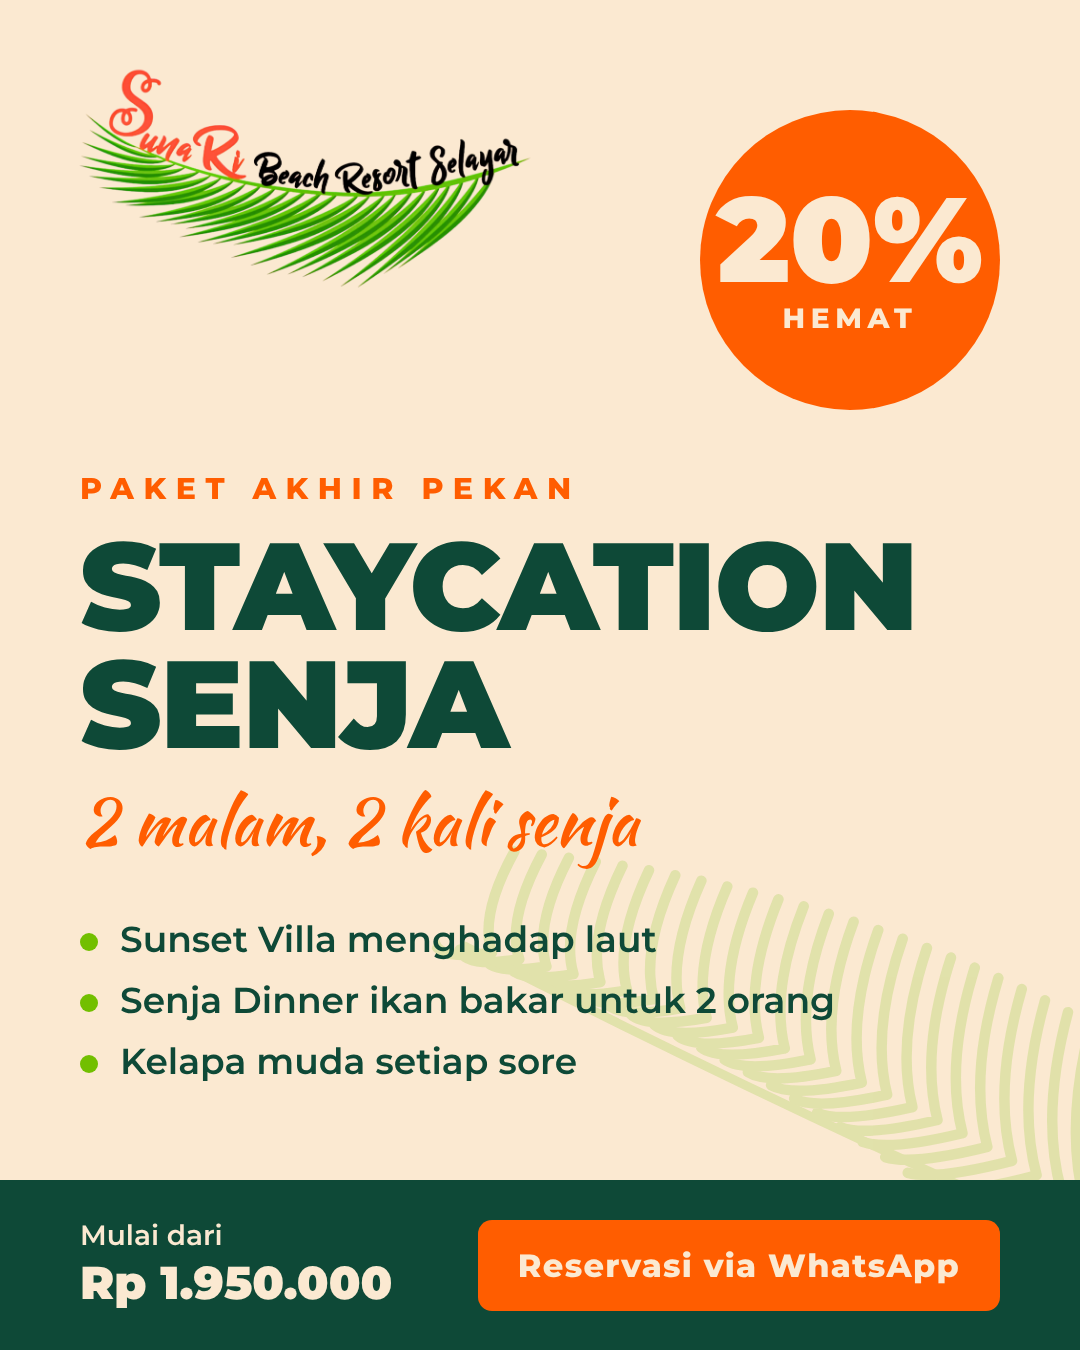
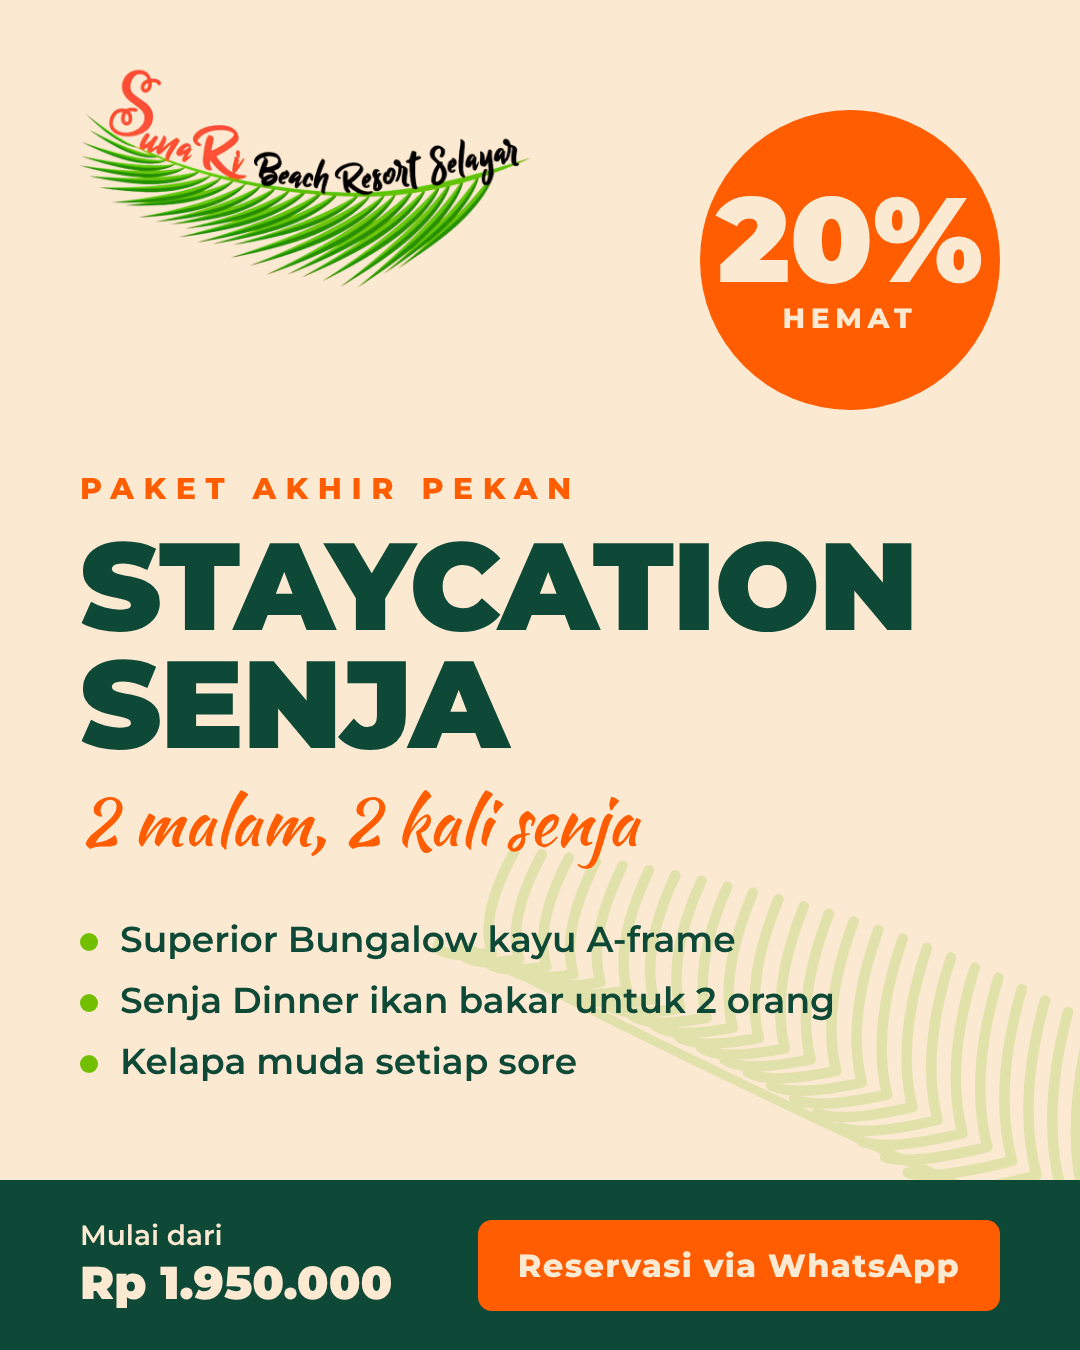
Add Superior Bungalow photos and room-tour carousel
Claude-Session: https://claude.ai/code/session_01AizaiBQtsTmWERPRfEgVV4

Changed region(s): [[0.1528, 0.6844, 0.6722, 0.7156]]

diff --git a/social/carousel-superior.html b/social/carousel-superior.html
@@ -1,0 +1,106 @@
+<!doctype html>
+<html lang="id">
+<head>
+<meta charset="utf-8">
+<meta name="viewport" content="width=device-width, initial-scale=1">
+<title>Superior Bungalow Carousel</title>
+<link href="https://fonts.googleapis.com/css2?family=Montserrat:wght@500;600;800;900&family=Kaushan+Script&display=swap" rel="stylesheet">
+<style>
+  :root{--teal:#0E4937;--beige:#FBE9D1;--orange:#FF5D00;--lime:#72BF00}
+  *{box-sizing:border-box;margin:0;padding:0}
+  body{background:#d9d4cc;font-family:Montserrat,sans-serif;padding:40px;display:flex;flex-wrap:wrap;gap:40px}
+  .tpl{position:relative;width:1080px;height:1350px;overflow:hidden;flex:none;background:var(--teal);color:var(--beige)}
+  .photo{position:absolute;inset:0;width:100%;height:100%;object-fit:cover}
+  .script{font-family:'Kaushan Script',cursive}
+  .kicker{font-weight:800;letter-spacing:.32em;text-transform:uppercase;font-size:28px}
+  .num{position:absolute;top:56px;right:60px;font-weight:800;font-size:26px;letter-spacing:.2em;
+       background:rgba(14,73,55,.82);padding:12px 22px;border-radius:40px}
+  /* cover */
+  #sb-1 .shade{position:absolute;inset:0;background:linear-gradient(180deg,rgba(14,73,55,0) 28%,rgba(14,73,55,.9) 62%,var(--teal) 100%)}
+  #sb-1 .txt{position:absolute;left:80px;right:80px;bottom:300px}
+  #sb-1 .kicker{color:var(--beige);opacity:.9}
+  #sb-1 h1{font-weight:900;font-size:128px;line-height:.92;text-transform:uppercase;margin-top:16px}
+  #sb-1 .script{color:var(--orange);font-size:62px;margin-top:14px}
+  #sb-1 .logo{position:absolute;left:66px;bottom:60px;width:420px}
+  #sb-1 .swipe{position:absolute;right:80px;bottom:100px;font-weight:700;font-size:28px;letter-spacing:.14em}
+  /* photo slides */
+  .photo-slide .photo{height:1030px}
+  .photo-slide .band{position:absolute;left:0;right:0;bottom:0;height:320px;background:var(--teal);padding:56px 80px}
+  .photo-slide .band::before{content:"";position:absolute;left:80px;top:0;width:120px;height:8px;background:var(--orange)}
+  .photo-slide h2{font-weight:900;font-size:66px;line-height:1.02;text-transform:uppercase}
+  .photo-slide p{font-weight:500;font-size:32px;line-height:1.45;margin-top:18px;opacity:.9}
+  /* split slide */
+  #sb-5 .a{position:absolute;left:0;top:0;width:1080px;height:515px;object-fit:cover}
+  #sb-5 .b{position:absolute;left:0;top:525px;width:1080px;height:505px;object-fit:cover}
+  /* CTA */
+  #sb-6{background:var(--beige);color:var(--teal)}
+  #sb-6 .logo{position:absolute;left:70px;top:60px;width:470px}
+  #sb-6 .body{position:absolute;left:80px;right:80px;top:380px}
+  #sb-6 .kicker{color:var(--orange)}
+  #sb-6 h2{font-weight:900;font-size:96px;line-height:.95;text-transform:uppercase;margin-top:16px}
+  #sb-6 ul{list-style:none;margin-top:44px;font-weight:600;font-size:34px;line-height:1.75}
+  #sb-6 li::before{content:"";display:inline-block;width:16px;height:16px;border-radius:50%;background:var(--lime);margin-right:22px;vertical-align:middle}
+  #sb-6 .cta{position:absolute;left:0;right:0;bottom:0;height:170px;background:var(--teal);color:var(--beige);display:flex;align-items:center;justify-content:space-between;padding:0 80px}
+  #sb-6 .price{font-weight:600;font-size:28px;line-height:1.3;white-space:nowrap}
+  #sb-6 .price b{display:block;font-weight:900;font-size:44px}
+  #sb-6 .btn{white-space:nowrap;background:var(--orange);font-weight:800;font-size:32px;padding:26px 40px;border-radius:14px}
+</style>
+</head>
+<body>
+<div class="tpl" id="sb-1">
+  <img class="photo" src="../assets/photos/superior-bungalow/02-eksterior-depan.jpg" style="object-position:50% 30%" alt="">
+  <div class="shade"></div>
+  <div class="txt">
+    <div class="kicker">Room Tour</div>
+    <h1>Superior<br>Bungalow</h1>
+    <div class="script">Rumah kayu di antara pohon kelapa</div>
+  </div>
+  <div class="swipe">GESER →</div>
+  <img class="logo" src="../assets/logo-sunari-light.png" alt="">
+</div>
+
+<div class="tpl photo-slide" id="sb-2">
+  <img class="photo" src="../assets/photos/superior-bungalow/03-teras.jpg" alt="">
+  <div class="num">2/6</div>
+  <div class="band"><h2>Teras kayu pribadi</h2><p>Tempat terbaik untuk kopi pagi dan obrolan sore, dengan pohon kelapa sebagai pemandangannya.</p></div>
+</div>
+
+<div class="tpl photo-slide" id="sb-3">
+  <img class="photo" src="../assets/photos/superior-bungalow/04-kamar-loteng.jpg" alt="">
+  <div class="num">3/6</div>
+  <div class="band"><h2>Atap A-frame &amp; loteng</h2><p>Langit-langit kayu menjulang dengan loteng di atas. Lapang, sejuk, dan hangat sekaligus.</p></div>
+</div>
+
+<div class="tpl photo-slide" id="sb-4">
+  <img class="photo" src="../assets/photos/superior-bungalow/05-kamar-tempat-tidur.jpg" alt="">
+  <div class="num">4/6</div>
+  <div class="band"><h2>Tidur nyenyak, bangun santai</h2><p>Kasur besar, pintu kaca ke teras, dan cahaya pagi yang masuk pelan-pelan.</p></div>
+</div>
+
+<div class="tpl photo-slide" id="sb-5">
+  <img class="a" src="../assets/photos/superior-bungalow/10-kamar-mandi-taman.jpg" style="object-position:50% 60%" alt="">
+  <img class="b" src="../assets/photos/superior-bungalow/09-shower.jpg" style="object-position:50% 35%" alt="">
+  <div class="num">5/6</div>
+  <div class="band"><h2>Kamar mandi<br>semi-outdoor</h2><p>Mandi di bawah rain shower, ditemani taman hijau dan langit terbuka.</p></div>
+</div>
+
+<div class="tpl" id="sb-6">
+  <img class="logo" src="../assets/logo-sunari-transparent.png" alt="">
+  <div class="body">
+    <div class="kicker">Superior Bungalow</div>
+    <h2>Yang kamu<br>dapatkan</h2>
+    <ul>
+      <li>Bungalow kayu A-frame + loteng</li>
+      <li>Teras pribadi dengan kursi santai</li>
+      <li>Kamar mandi semi-outdoor, rain shower</li>
+      <li>AC, TV, perlengkapan kopi &amp; teh</li>
+      <li>Beberapa langkah ke pantai</li>
+    </ul>
+  </div>
+  <div class="cta">
+    <div class="price">Mulai dari<b>Rp [harga]/malam</b></div>
+    <div class="btn">Reservasi via WhatsApp</div>
+  </div>
+</div>
+</body>
+</html>

diff --git a/social/render.js b/social/render.js
@@ -1,16 +1,21 @@
-// Render each template in social-kit.html to PNG.
-// Usage: node social/render.js   (requires Playwright)
+// Render every .tpl element in a template file to PNG (file name = element id).
+// Usage: node social/render.js [file.html ...]   (default: all template files)
 const { chromium } = require('playwright');
 const path = require('path');
+const files = process.argv.slice(2).length ? process.argv.slice(2)
+  : ['social-kit.html', 'carousel-superior.html'];
 (async () => {
   const browser = await chromium.launch();
   const page = await browser.newPage({ viewport: { width: 2400, height: 2200 } });
-  await page.goto('file://' + path.join(__dirname, 'social-kit.html'));
-  await page.evaluate(() => document.fonts.ready);
-  await page.waitForTimeout(500);
-  for (const id of ['feed-senja', 'feed-promo', 'feed-quote', 'story-senja']) {
-    await page.locator('#' + id).screenshot({ path: path.join(__dirname, id + '.png') });
-    console.log('saved', id + '.png');
+  for (const f of files) {
+    const outDir = path.join(__dirname, f.startsWith('carousel') ? 'carousel' : '.');
+    await page.goto('file://' + path.join(__dirname, path.basename(f)));
+    await page.evaluate(() => document.fonts.ready);
+    await page.waitForLoadState('networkidle');
+    for (const id of await page.$$eval('.tpl', els => els.map(e => e.id))) {
+      await page.locator('#' + id).screenshot({ path: path.join(outDir, id + '.png') });
+      console.log('saved', path.relative(__dirname, path.join(outDir, id + '.png')));
+    }
   }
   await browser.close();
 })();

diff --git a/social/social-kit.html b/social/social-kit.html
@@ -117,7 +117,7 @@
     <h1>Staycation<br>Senja</h1>
     <div class="script">2 malam, 2 kali senja</div>
     <ul>
-      <li>Sunset Villa menghadap laut</li>
+      <li>Superior Bungalow kayu A-frame</li>
       <li>Senja Dinner ikan bakar untuk 2 orang</li>
       <li>Kelapa muda setiap sore</li>
     </ul>

diff --git a/social/INSTAGRAM_BULAN_1.md b/social/INSTAGRAM_BULAN_1.md
@@ -101,17 +101,19 @@ Simpan akun ini supaya tidak ketinggalan.
 #SenjaHariIni #SunaRiSelayar #Selayar #SunsetLovers
 ```
 
-**Hari 3 · Carousel · Kamar & Fasilitas**
-*Visual:* 5 slide: tampak depan resort, kamar, balkon, pantai, kursi santai.
+**Hari 3 · Carousel (siap: `social/carousel/sb-1…6.png`) · Kamar & Fasilitas**
+*Visual:* room tour Superior Bungalow, 6 slide (cover, teras, atap & loteng, tempat tidur, kamar mandi, fasilitas).
 ```
-Geser untuk melihat rumah barumu selama di Selayar. 🌴
+Room tour: Superior Bungalow. 🌴
 
-Semua kamar kami dirancang menghadap ke barat,
-supaya senja bisa kamu nikmati tanpa beranjak dari balkon.
+Rumah kayu beratap A-frame di antara pohon kelapa,
+lengkap dengan loteng, teras pribadi,
+dan kamar mandi semi-outdoor yang dikelilingi taman.
 
-Tipe kamar mana favoritmu? Tulis di kolom komentar.
+Geser sampai akhir untuk melihat fasilitasnya,
+lalu ceritakan di komentar: bagian mana yang paling kamu suka?
 
-#SunaRiSelayar #BeachResort #Selayar #ResortIndonesia
+#SunaRiSelayar #RoomTour #BeachResort #Selayar #ResortIndonesia
 ```
 
 **Hari 4 · Feed · Pesona Selayar**
@@ -204,13 +206,12 @@ Gratis untuk semua tamu yang menginap.
 ```
 
 **Hari 11 · Reels · Kamar**
-*Visual:* room tour Sunset Villa, dari pintu sampai ke balkon dengan view laut.
+*Visual:* video berjalan dari jalan setapak, naik tangga, masuk bungalow, menengadah ke atap A-frame, lalu ke kamar mandi semi-outdoor (urutan seperti foto 02 → 03 → 04 → 10).
 ```
-Room tour: Sunset Villa. 🛏
+Dari jalan setapak sampai ke shower di bawah langit terbuka. 🚿🌿
 
-Bangun dengan suara ombak.
-Tidur siang dengan angin laut.
-Lalu menikmati senja dari balkon sendiri.
+Superior Bungalow: rumah kayu kecil yang membuatmu lupa jam,
+sampai matahari mulai turun dan waktunya ke pantai. 🌅
 
 Mulai dari Rp [harga]/malam. Info lengkap via WhatsApp di bio.
 
@@ -347,7 +348,7 @@ kami akan repost favorit setiap minggu.
 ```
 Staycation Senja: 2 malam, 2 kali senja. 🌅
 
-✔ Sunset Villa menghadap laut
+✔ Superior Bungalow kayu A-frame dengan teras pribadi
 ✔ Senja Dinner ikan bakar untuk 2 orang
 ✔ Kelapa muda setiap sore
 

diff --git a/brand/BRAND_GUIDE.md b/brand/BRAND_GUIDE.md
@@ -148,7 +148,11 @@ Logo memakai huruf **tulisan tangan/kuas**. Agar logo tetap menonjol, font penda
 
 ## 6. Produk & Pengalaman Signature (usulan)
 
-**Tipe kamar:** Beach Bungalow · Sunset Villa · Family Cottage
+**Tipe kamar**
+- **Superior Bungalow** *(foto asli: `assets/photos/superior-bungalow/`)*: bungalow kayu beratap A-frame
+  dengan loteng, teras kayu pribadi, kamar mandi semi-outdoor dengan taman & rain shower, AC, TV,
+  perlengkapan kopi/teh. Kata kunci promosi: *rumah kayu di antara pohon kelapa*.
+- Tipe kamar lain: [menunggu data]
 
 **Pengalaman**
 - **Sunset Ritual**: 30 menit sebelum senja, tamu disuguhi kelapa muda di tepi pantai.
@@ -188,6 +192,7 @@ Folder `social/`:
 - `feed-promo.png`: postingan promo/paket (1080×1350)
 - `feed-quote.png`: kutipan/tagline (1080×1350)
 - `story-senja.png`: story jam senja (1080×1920)
+- `carousel/sb-1…6.png`: carousel room tour Superior Bungalow (sumber: `carousel-superior.html`)
 - `social-kit.html`: sumber template. Ubah teks lalu jalankan `social/render.js` untuk membuat ulang PNG.
 
 **Hashtag inti:** `#SunaRiSelayar` `#SenjaHariIni` `#Selayar` `#PesonaSelayar` `#TakaBonerate` `#WonderfulIndonesia`

diff --git a/README.md b/README.md
@@ -8,7 +8,8 @@ Aset brand untuk resort tepi pantai di Kepulauan Selayar dengan pemandangan mata
 | `brand/palette-reference.jpg` | Referensi palet warna |
 | `assets/` | Logo asli, versi transparan (latar terang), dan versi terang (latar gelap) |
 | `social/INSTAGRAM_BULAN_1.md` | Bio Instagram, highlight, dan 30 caption bulan pertama |
-| `social/` | Template Instagram (feed 1080×1350, story 1080×1920) beserta sumber HTML-nya |
+| `social/` | Template Instagram (feed, story, carousel room tour) beserta sumber HTML-nya |
+| `assets/photos/` | Foto asli kamar |
 
 ## Palet
 `#0E4937` Forest Teal · `#FBE9D1` Light Beige · `#FF5D00` Vivid Orange · `#72BF00` Lime Green
